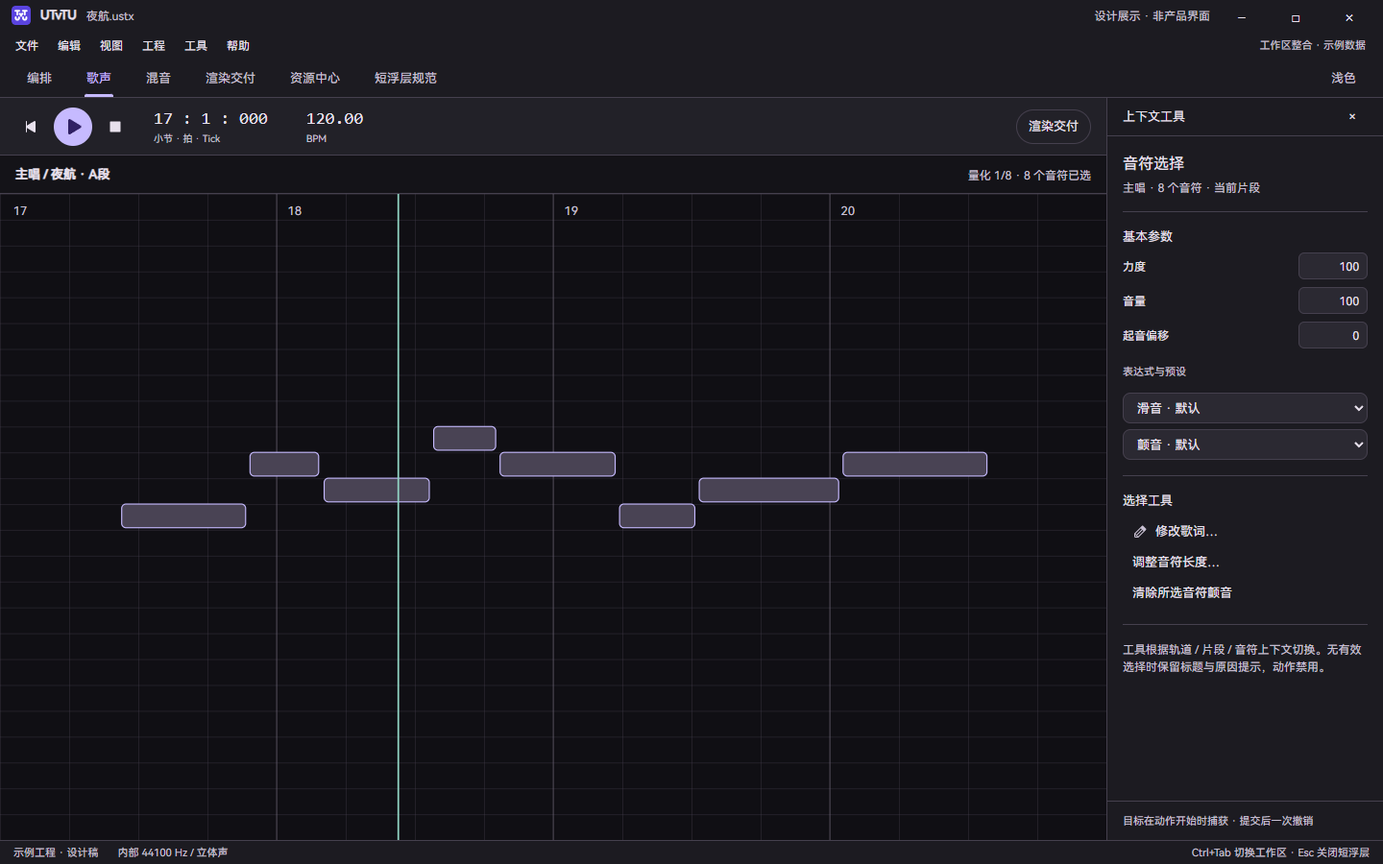
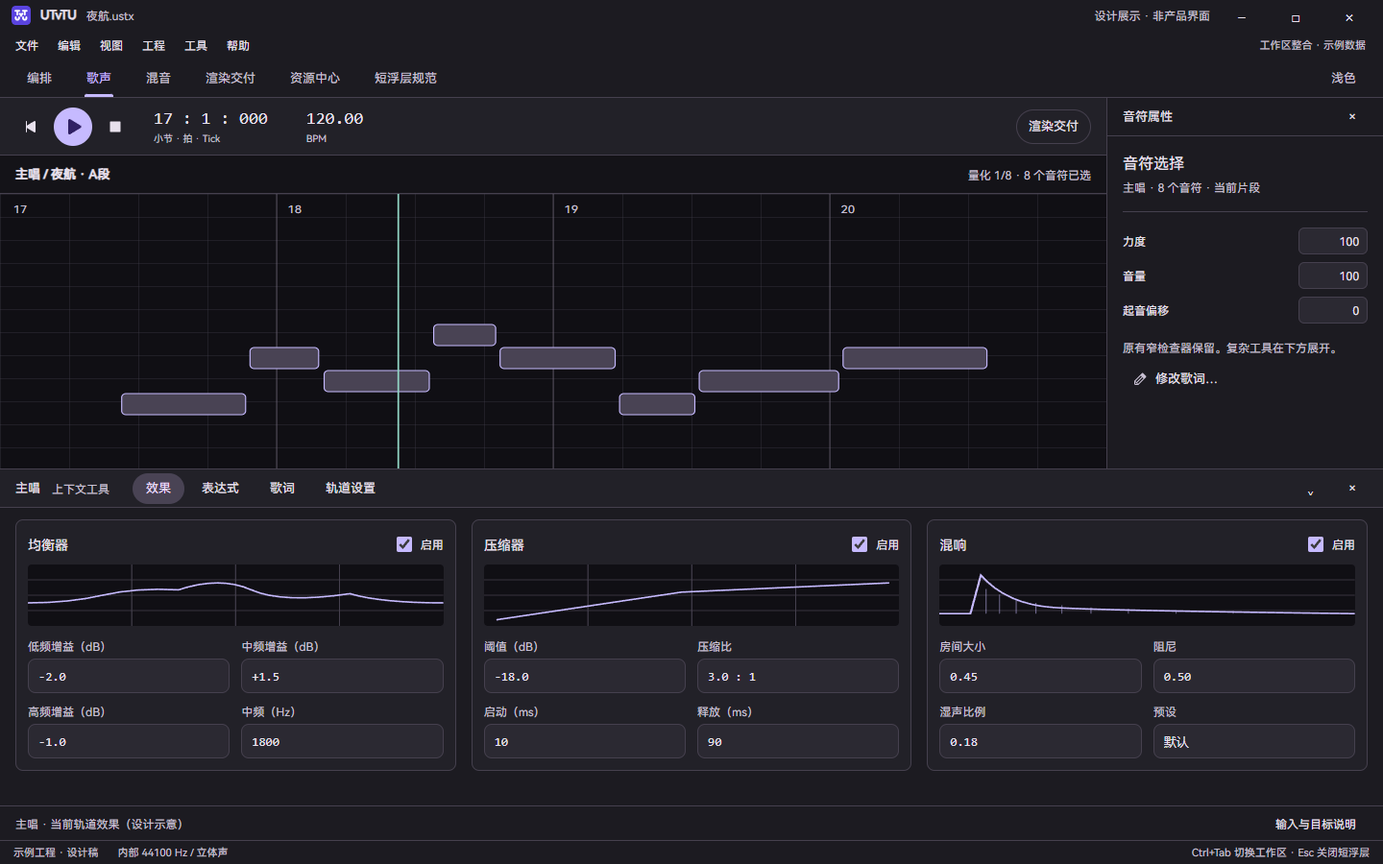
设计：将复杂上下文工具改为全宽可调底部面板

diff --git a/.opencode/design/workspace-integration-2026-10-11/index.html b/.opencode/design/workspace-integration-2026-10-11/index.html
@@ -8,6 +8,7 @@
 :root{color-scheme:dark;--surface:#141318;--surface-lowest:#100f14;--surface-low:#1c1b21;--surface-container:#222128;--surface-high:#2b2932;--surface-highest:#35323e;--on-surface:#e8e1ed;--on-surface-variant:#c8c0d3;--primary:#c6baff;--on-primary:#302065;--secondary-container:#494354;--on-secondary-container:#e9def8;--outline:#958d9f;--outline-variant:#45404e;--error:#ffb4ab;--tertiary:#91d5c4;--field:36px;--target:32px;--nav:232px;--context:288px;--radius-input:8px;--radius-popup:12px;--radius-pill:999px;--font:"HarmonyOS Sans SC","Microsoft YaHei UI","Segoe UI",sans-serif}
 html[data-theme="light"]{color-scheme:light;--surface:#faf8fd;--surface-lowest:#fff;--surface-low:#f2eff7;--surface-container:#ece8f2;--surface-high:#e5e0ed;--surface-highest:#ded8e6;--on-surface:#1d1a23;--on-surface-variant:#4b4558;--primary:#5c4694;--on-primary:#fff;--secondary-container:#e9def8;--on-secondary-container:#231b30;--outline:#7b7288;--outline-variant:#cdc5d8;--error:#b3261e;--tertiary:#176b57}
 @font-face{font-family:"HarmonyOS Sans SC";src:url("../../../OpenUtau/Assets/Fonts/HarmonyOS_Sans_SC_Regular.ttf")}*{box-sizing:border-box}body{margin:0;background:var(--surface);color:var(--on-surface);font:13px/1.5 var(--font);overflow:hidden}button,input,select{font:inherit;color:inherit}button{height:32px;border:0;border-radius:999px;background:transparent;padding:0 12px;cursor:pointer;display:inline-flex;align-items:center;justify-content:center;gap:8px;white-space:nowrap}button:hover{background:color-mix(in srgb,var(--on-surface) 8%,transparent)}button:active{background:color-mix(in srgb,var(--on-surface) 12%,transparent)}button:focus-visible,input:focus-visible,select:focus-visible{outline:2px solid var(--primary);outline-offset:2px}button:disabled{opacity:.38;cursor:default}.icon{width:16px;height:16px;fill:currentColor;stroke:none;flex:none}.icon-button{width:32px;padding:0}.primary{background:var(--primary);color:var(--on-primary);height:36px;padding:0 18px}.outline{border:1px solid var(--outline-variant);height:36px}.tonal{background:var(--secondary-container);color:var(--on-secondary-container)}.muted,.hint{color:var(--on-surface-variant)}.hint{font-size:12px;line-height:18px}.mono{font-family:Consolas,"Cascadia Mono",monospace;font-variant-numeric:tabular-nums}.spacer{flex:1}.row{display:flex;align-items:center;gap:8px}.small{font-size:12px}.divider{height:1px;background:var(--outline-variant);margin:20px 0}.app{height:100dvh;display:flex;flex-direction:column;min-width:620px}.titlebar{height:32px;background:var(--surface-low);display:flex;align-items:center;padding:0 12px;gap:10px;flex:none}.brand{font-weight:600}.brand-icon{width:20px;height:20px}.titlebar .window-button{height:32px;width:46px;border-radius:0;padding:0;font:16px "Segoe UI"}.menubar{height:30px;display:flex;align-items:center;background:var(--surface-low);padding:0 6px;flex:none}.menubar button{height:26px;border-radius:4px;font-size:12px;padding:0 10px}.prototype{font-size:11px;color:var(--on-surface-variant);margin-right:12px}.navigation{height:40px;display:flex;align-items:stretch;gap:4px;padding:0 12px;border-bottom:1px solid var(--outline-variant);background:var(--surface-low);flex:none}.navigation button{height:39px;border-radius:0;position:relative;padding:0 16px;color:var(--on-surface-variant)}.navigation button[aria-selected="true"]{color:var(--primary)}.navigation button[aria-selected="true"]:after{content:"";position:absolute;left:14px;right:14px;bottom:0;height:3px;background:var(--primary);border-radius:3px 3px 0 0}.navigation .theme-button{height:32px;align-self:center;border-radius:999px}.view{display:flex;flex:1;min-height:0;overflow:hidden}.view[hidden]{display:none}.status{height:25px;flex:none;border-top:1px solid var(--outline-variant);background:var(--surface-low);display:flex;align-items:center;gap:20px;padding:0 14px;font-size:11px;color:var(--on-surface-variant)}.page{display:flex;flex-direction:column;flex:1;min-width:0;min-height:0}.scroll{flex:1;overflow:auto;min-height:0}.page-width{max-width:1040px;margin:0 auto;padding:24px}.page-title{font-size:22px;font-weight:600;margin:0 0 4px}.subtitle{font-size:13px;margin:0 0 24px;color:var(--on-surface-variant)}h2{font-size:16px;font-weight:500;margin:0 0 12px}h3{font-size:13px;font-weight:500;margin:0 0 6px}.columns{display:grid;grid-template-columns:minmax(0,1.3fr) minmax(0,1fr);gap:32px}.fields[hidden]{display:none}.fields{display:grid;grid-template-columns:1fr 1fr;gap:12px}.field-label{display:block;color:var(--on-surface-variant);font-weight:500;margin:0 0 6px}.field{height:36px;min-width:0;width:100%;border:1px solid var(--outline-variant);border-radius:8px;background:var(--surface-high);padding:0 10px}.path{display:grid;grid-template-columns:minmax(0,1fr) auto;gap:8px}.segment{display:flex;gap:2px;border-radius:999px;padding:3px;background:var(--surface-high);margin-bottom:8px}.segment button{height:36px;flex:1;min-width:0}.segment button[aria-pressed="true"]{background:var(--secondary-container);color:var(--on-secondary-container)}.range-settings{display:grid;grid-template-columns:minmax(0,1fr) 160px;align-items:end;gap:16px}.range-settings .segment{margin-bottom:0}.form-group{margin:0 0 16px}.checks{display:grid;gap:4px;margin:12px 0}.check{min-height:32px;display:flex;align-items:center;gap:9px}.check input{accent-color:var(--primary);width:16px;height:16px;margin:0}.track-list{border:1px solid var(--outline-variant);border-radius:12px;padding:6px 10px;max-height:152px;overflow:auto}.track-list .check{border-bottom:1px solid var(--outline-variant);min-height:36px}.track-list .check:last-child{border:0}.track-list .count{margin-left:auto;font-size:11px;color:var(--on-surface-variant)}.summary{background:var(--surface-container);border-radius:12px;padding:12px 16px;line-height:20px}.job-bar{border-top:1px solid var(--outline-variant);background:var(--surface-low);flex:none}.job-width{max-width:1040px;margin:auto;padding:12px 24px 16px}.progress{height:6px;border-radius:999px;background:var(--surface-highest);overflow:hidden;margin:8px 0 12px}.progress>span{display:block;width:0;height:100%;background:var(--primary)}.job-bar button{height:36px}.job-message{min-height:18px}.side-nav{width:232px;flex:none;border-right:1px solid var(--outline-variant);background:var(--surface-low);padding:24px 16px;display:flex;flex-direction:column;gap:4px}.side-nav h2{padding:0 12px;margin-bottom:16px}.side-nav button{justify-content:flex-start;height:36px}.side-nav button[aria-selected="true"]{background:var(--secondary-container);color:var(--on-secondary-container)}.side-nav .hint{padding:0 12px}.library-head{display:flex;align-items:center;gap:12px;margin-bottom:20px}.search{position:relative;flex:1}.search .field{padding-left:36px}.search>.icon{position:absolute;left:11px;top:10px}.filterbar{display:flex;align-items:center;gap:8px;margin-bottom:12px}.badge{font-size:11px;border:1px solid var(--outline-variant);padding:2px 8px;border-radius:999px;color:var(--on-surface-variant)}.resource-list{border-top:1px solid var(--outline-variant)}.resource-row{display:flex;align-items:center;gap:12px;min-height:56px;padding:8px 12px;border-bottom:1px solid var(--outline-variant);cursor:pointer}.resource-row:hover{background:color-mix(in srgb,var(--on-surface) 8%,transparent)}.resource-row[hidden]{display:none}.resource-row.active{background:var(--secondary-container);color:var(--on-secondary-container)}.resource-thumb{width:36px;height:36px;background:var(--surface-high);border-radius:8px;display:grid;place-items:center;color:var(--primary);flex:none;font-size:14px}.resource-name{font-weight:500}.resource-type{font-size:12px;color:var(--on-surface-variant)}.resource-row .badge{margin-left:auto}.context{width:288px;flex:none;display:flex;flex-direction:column;background:var(--surface-low);border-left:1px solid var(--outline-variant);min-height:0}.context-head{height:40px;display:flex;align-items:center;padding:0 16px;gap:8px;border-bottom:1px solid var(--outline-variant);flex:none;font-weight:500}.context-body{padding:16px;overflow:auto;min-height:0;flex:1}.context-title{font-size:16px;font-weight:500;margin-bottom:4px}.context .divider{margin:16px 0}.context .field{height:32px}.definition{display:grid;grid-template-columns:64px minmax(0,1fr);gap:6px 12px;margin:16px 0;font-size:12px}.definition dt{color:var(--on-surface-variant)}.definition dd{margin:0;overflow-wrap:anywhere}.context-action{width:100%;justify-content:flex-start;height:32px;padding:0 10px}.context-action svg{color:var(--on-surface-variant)}.context .danger{color:var(--error)}.context-footer{border-top:1px solid var(--outline-variant);padding:12px 16px;font-size:11px;color:var(--on-surface-variant)}.transport{height:60px;display:flex;align-items:center;padding:0 16px;gap:8px;background:var(--surface-container);border-bottom:1px solid var(--outline-variant);flex:none}.play{height:40px;width:40px;background:var(--primary);color:var(--on-primary);padding:0}.readout{padding:0 16px;font:18px Consolas,monospace}.readout small{font:10px var(--font);color:var(--on-surface-variant);display:block;margin-top:3px}.editor{display:flex;flex-direction:column;flex:1;min-width:0}.editor-tools{height:40px;border-bottom:1px solid var(--outline-variant);padding:0 16px;gap:8px;display:flex;align-items:center}.editor-tools button{height:28px}.timeline{flex:1;overflow:hidden;background:var(--surface-lowest);position:relative}.timeline svg{width:100%;height:100%;display:block}.timeline text{font-family:var(--font);font-size:11px;fill:var(--on-surface-variant)}.context .parameter{display:grid;grid-template-columns:1fr 72px;align-items:center;margin-bottom:8px;gap:12px;font-size:12px}.parameter input{text-align:right;height:28px;border:1px solid var(--outline-variant);background:var(--surface-high);border-radius:6px;padding:0 8px;color:var(--on-surface);min-width:0;width:72px}.context select{margin-top:6px}.tool-caption{font-size:11px;color:var(--on-surface-variant);margin:16px 0 8px}.modal-backdrop{position:fixed;inset:102px 0 25px;background:#0005;display:grid;place-items:center;z-index:10}.modal-backdrop[hidden]{display:none}.popup{width:360px;border-radius:12px;border:1px solid var(--outline-variant);background:var(--surface-high);padding:16px;box-shadow:0 12px 36px #0004}.popup h2{margin-bottom:4px}.popup .form-group{margin:16px 0}.popup .field{background:var(--surface-container)}.popup .actions{display:flex;justify-content:flex-end;gap:8px;margin-top:16px}.popup .error{font-size:12px;color:var(--error)}.overlay-page{flex:1;overflow:auto}.overlay-examples{display:grid;grid-template-columns:repeat(3,1fr);gap:20px;max-width:1160px;margin:auto;padding:24px}.overlay-examples .popup{width:auto;box-shadow:none}.spec-note{border-left:2px solid var(--primary);padding:8px 12px;font-size:12px;color:var(--on-surface-variant);margin-top:20px}.empty{padding:32px 16px;text-align:center;color:var(--on-surface-variant);font-size:12px}.resource-page[hidden],.resource-panel[hidden]{display:none}@media(max-width:1100px){.context{width:256px}.side-nav{width:200px}.columns{gap:20px}}@media(max-width:900px){.context{display:none}.side-nav{width:180px}.page-width{padding:20px}.navigation button{padding:0 11px}.prototype{display:none}.overlay-examples{grid-template-columns:1fr 1fr}.overlay-examples>.popup:last-child{grid-column:1/-1}}@media(max-width:720px){.columns{grid-template-columns:1fr}.side-nav{width:152px;padding:20px 8px}.side-nav button{padding:0 10px}.fields{gap:8px}.library-head{flex-wrap:wrap}.overlay-examples{grid-template-columns:1fr}.overlay-examples>.popup:last-child{grid-column:auto}}
+.context-view{flex-direction:column}.context-top{display:flex;flex:1;min-height:170px;min-width:0}.context-top .timeline{min-height:70px}.context-top .timeline>svg{height:600px}.bottom-dock button.outline,.bottom-dock button.primary{height:32px}.bottom-dock{height:43vh;min-height:220px;max-height:calc(100% - 170px);flex:none;background:var(--surface-low);display:flex;flex-direction:column;position:relative;border-top:1px solid var(--outline-variant)}.dock-splitter{height:6px;position:absolute;top:-3px;left:0;right:0;z-index:2;cursor:ns-resize;background:transparent}.dock-splitter:hover,.dock-splitter:focus-visible{background:color-mix(in srgb,var(--primary) 24%,transparent);outline:none}.dock-head{height:40px;flex:none;display:flex;align-items:center;gap:12px;padding:0 16px;border-bottom:1px solid var(--outline-variant);background:var(--surface-container)}.dock-head strong{font-weight:500}.dock-tabs{display:flex;align-items:center;gap:4px;margin-left:12px}.dock-tabs button{height:32px;padding:0 14px}.dock-tabs button[aria-selected="true"]{background:var(--secondary-container);color:var(--on-secondary-container)}.dock-body{overflow:auto;flex:1;min-height:0;padding:12px 16px}.dock-page[hidden]{display:none}.effect-grid{display:grid;grid-template-columns:repeat(3,minmax(0,1fr));gap:16px}.dock-module{background:var(--surface-container);border:1px solid var(--outline-variant);border-radius:8px;padding:12px}.module-title{display:flex;align-items:center;height:26px;margin-bottom:8px;gap:8px}.module-title h3{font-size:14px;margin:0}.module-title .check{min-height:26px}.module-plot{width:100%;height:64px;display:block;background:var(--surface-lowest);border-radius:4px;margin-bottom:12px}.module-fields{display:grid;grid-template-columns:1fr 1fr;gap:10px 12px}.module-fields .field-label{font-size:12px;margin-bottom:4px}.module-fields .field{height:36px}.dock-footer{height:36px;display:flex;align-items:center;gap:8px;padding:0 16px;border-top:1px solid var(--outline-variant);flex:none}.dock-footer button{height:32px}.tool-layout{display:grid;grid-template-columns:minmax(0,2fr) minmax(240px,1fr);gap:24px}.expression-table{border-top:1px solid var(--outline-variant)}.expression-row{display:grid;grid-template-columns:1.5fr .8fr 1fr .8fr .8fr 1fr;align-items:center;gap:8px;height:40px;padding:0 12px;border-bottom:1px solid var(--outline-variant)}.expression-row.table-head{height:32px;color:var(--on-surface-variant);font-size:12px}.expression-row.selected{background:var(--secondary-container)}.lyric-editor{width:100%;height:140px;resize:none;background:var(--surface-high);color:var(--on-surface);font:14px/24px var(--font);border:1px solid var(--outline-variant);border-radius:8px;padding:12px}.bottom-dock.collapsed{height:40px!important;min-height:40px;max-height:40px}.bottom-dock.collapsed .dock-body,.bottom-dock.collapsed .dock-footer{display:none}@media(max-width:900px){.effect-grid{min-width:860px}.dock-head{gap:8px}.dock-head>.hint{display:none}.dock-tabs{margin-left:0}.dock-tabs button{padding:0 9px}.tool-layout{grid-template-columns:minmax(350px,2fr) minmax(220px,1fr)}}
 </style>
 </head>
 <body>
@@ -39,7 +40,7 @@ html[data-theme="light"]{color-scheme:light;--surface:#faf8fd;--surface-lowest:#
 </div></div></div>
 <aside class="context" id="resource-details"><div class="context-head">资源详情<span class="spacer"></span><button class="icon-button" aria-label="资源详情更多操作">⋯</button></div><div class="context-body"><div class="resource-thumb" style="width:48px;height:48px;margin-bottom:12px">清</div><div class="context-title" id="detail-name">清和</div><div class="hint" id="detail-type">DiffSinger · 多音阶</div><dl class="definition"><dt>状态</dt><dd>可用</dd><dt>来源</dt><dd>本地安装</dd><dt>目录</dt><dd class="mono">Singers\清和</dd></dl><div class="divider"></div><h3>音源工具</h3><button class="context-action"><svg class="icon"><use href="#icon-folder-open"/></svg>打开音源目录</button><button class="context-action"><svg class="icon"><use href="#icon-settings"/></svg>音源配置…</button><button class="context-action" id="resource-info"><svg class="icon"><use href="#icon-info"/></svg>查看说明</button><div class="divider"></div><div class="hint">资源详情与工程选择分离，切换资源不会替换轨道音源。</div></div><div class="context-footer">示例资源 · 详情仅为布局示意</div></aside>
 </section>
-<section class="view" id="view-context" hidden><div class="editor"><div class="transport"><button class="icon-button" aria-label="回到起点示意"><svg class="icon"><use href="#icon-skip-back"/></svg></button><button class="play" aria-label="播放示意"><svg class="icon" style="width:20px;height:20px"><use href="#icon-play"/></svg></button><button class="icon-button" aria-label="停止示意"><svg class="icon"><use href="#icon-stop"/></svg></button><div class="readout">17 : 1 : 000<small>小节 · 拍 · Tick</small></div><div class="readout">120.00<small>BPM</small></div><span class="spacer"></span><button class="outline" data-view="render">渲染交付</button></div><div class="editor-tools"><strong>主唱 / 夜航 · A段</strong><span class="spacer"></span><span class="hint">量化 1/8 · 8 个音符已选</span></div><div class="timeline"><svg viewBox="0 0 1000 600" preserveAspectRatio="none" aria-label="音符几何示意"><defs><pattern id="beat-grid" width="62.5" height="24" patternUnits="userSpaceOnUse"><path d="M62.5 0H0V24" fill="none" stroke="var(--outline-variant)" stroke-width=".6"/></pattern></defs><rect width="1000" height="600" fill="url(#beat-grid)"/><path d="M250 0V600 M500 0V600 M750 0V600" fill="none" stroke="var(--outline)" opacity=".4"/><g fill="var(--secondary-container)" stroke="var(--primary)" stroke-width="1"><rect x="110" y="288" width="112" height="22" rx="4"/><rect x="226" y="240" width="62" height="22" rx="4"/><rect x="293" y="264" width="95" height="22" rx="4"/><rect x="392" y="216" width="56" height="22" rx="4"/><rect x="452" y="240" width="104" height="22" rx="4"/><rect x="560" y="288" width="68" height="22" rx="4"/><rect x="632" y="264" width="126" height="22" rx="4"/><rect x="762" y="240" width="130" height="22" rx="4"/></g><text x="12" y="20">17</text><text x="260" y="20">18</text><text x="510" y="20">19</text><text x="760" y="20">20</text><path d="M360 0V600" stroke="var(--tertiary)" stroke-width="1.5"/></svg></div></div><aside class="context"><div class="context-head">上下文工具<span class="spacer"></span><button class="icon-button" aria-label="收起上下文工具">×</button></div><div class="context-body"><div class="context-title">音符选择</div><div class="hint">主唱 · 8 个音符 · 当前片段</div><div class="divider"></div><h3>基本参数</h3><div class="parameter"><span>力度</span><input value="100" aria-label="力度"></div><div class="parameter"><span>音量</span><input value="100" aria-label="音量"></div><div class="parameter"><span>起音偏移</span><input value="0" aria-label="起音偏移"></div><div class="tool-caption">表达式与预设</div><select class="field" aria-label="滑音预设"><option>滑音 · 默认</option><option>柔和</option></select><select class="field" aria-label="颤音预设"><option>颤音 · 默认</option><option>轻颤音</option></select><div class="divider"></div><h3>选择工具</h3><button class="context-action" id="rename-open"><svg class="icon"><use href="#icon-pencil"/></svg>修改歌词…</button><button class="context-action">调整音符长度…</button><button class="context-action">清除所选音符颤音</button><div class="divider"></div><div class="hint">工具根据轨道 / 片段 / 音符上下文切换。无有效选择时保留标题与原因提示，动作禁用。</div></div><div class="context-footer">目标在动作开始时捕获 · 提交后一次撤销</div></aside></section>
+<section class="view context-view" id="view-context" hidden><div class="context-top"><div class="editor"><div class="transport"><button class="icon-button" aria-label="回到起点示意"><svg class="icon"><use href="#icon-skip-back"/></svg></button><button class="play" aria-label="播放示意"><svg class="icon" style="width:20px;height:20px"><use href="#icon-play"/></svg></button><button class="icon-button" aria-label="停止示意"><svg class="icon"><use href="#icon-stop"/></svg></button><div class="readout">17 : 1 : 000<small>小节 · 拍 · Tick</small></div><div class="readout">120.00<small>BPM</small></div><span class="spacer"></span><button class="outline" data-view="render">渲染交付</button></div><div class="editor-tools"><strong>主唱 / 夜航 · A段</strong><span class="spacer"></span><span class="hint">量化 1/8 · 8 个音符已选</span></div><div class="timeline"><svg viewBox="0 0 1000 600" preserveAspectRatio="none" aria-label="音符几何示意"><defs><pattern id="beat-grid" width="62.5" height="24" patternUnits="userSpaceOnUse"><path d="M62.5 0H0V24" fill="none" stroke="var(--outline-variant)" stroke-width=".6"/></pattern></defs><rect width="1000" height="600" fill="url(#beat-grid)"/><path d="M250 0V600 M500 0V600 M750 0V600" fill="none" stroke="var(--outline)" opacity=".4"/><g fill="var(--secondary-container)" stroke="var(--primary)" stroke-width="1"><rect x="110" y="208" width="112" height="22" rx="4"/><rect x="226" y="160" width="62" height="22" rx="4"/><rect x="293" y="184" width="95" height="22" rx="4"/><rect x="392" y="136" width="56" height="22" rx="4"/><rect x="452" y="160" width="104" height="22" rx="4"/><rect x="560" y="208" width="68" height="22" rx="4"/><rect x="632" y="184" width="126" height="22" rx="4"/><rect x="762" y="160" width="130" height="22" rx="4"/></g><text x="12" y="20">17</text><text x="260" y="20">18</text><text x="510" y="20">19</text><text x="760" y="20">20</text><path d="M360 0V600" stroke="var(--tertiary)" stroke-width="1.5"/></svg></div></div><aside class="context existing-inspector"><div class="context-head">音符属性<span class="spacer"></span><button class="icon-button" aria-label="收起检查器">×</button></div><div class="context-body"><div class="context-title">音符选择</div><div class="hint">主唱 · 8 个音符 · 当前片段</div><div class="divider"></div><div class="parameter"><span>力度</span><input value="100" aria-label="检查器力度"></div><div class="parameter"><span>音量</span><input value="100" aria-label="检查器音量"></div><div class="parameter"><span>起音偏移</span><input value="0" aria-label="检查器起音偏移"></div><div class="hint" style="margin-top:16px">原有窄检查器保留。复杂工具在下方展开。</div><button class="context-action" id="rename-open" style="margin-top:8px"><svg class="icon"><use href="#icon-pencil"/></svg>修改歌词…</button></div></aside></div><section class="bottom-dock" id="bottom-dock" aria-label="上下文工具面板"><div class="dock-splitter" id="dock-splitter" role="separator" aria-label="调整工具面板高度" aria-orientation="horizontal" aria-valuemin="220" aria-valuemax="600" aria-valuenow="387" tabindex="0"></div><header class="dock-head"><strong>主唱</strong><span class="hint">上下文工具</span><div class="dock-tabs" role="tablist"><button role="tab" data-tool="fx" aria-selected="true">效果</button><button role="tab" data-tool="expressions" aria-selected="false">表达式</button><button role="tab" data-tool="lyrics" aria-selected="false">歌词</button><button role="tab" data-tool="track" aria-selected="false">轨道设置</button></div><span class="spacer"></span><button class="icon-button" id="dock-collapse" aria-label="收起或展开工具面板">⌄</button><button class="icon-button" id="dock-close" aria-label="关闭工具面板">×</button></header><div class="dock-body"><div class="dock-page" id="dock-fx"><div class="effect-grid"><section class="dock-module"><div class="module-title"><h3>均衡器</h3><span class="spacer"></span><label class="check small"><input type="checkbox" checked>启用</label></div><svg class="module-plot" viewBox="0 0 400 80" preserveAspectRatio="none"><path d="M0 20H400M0 40H400M0 60H400M100 0V80M200 0V80M300 0V80" stroke="var(--outline-variant)" fill="none"/><path d="M0 50Q40 50 72 40T145 33Q185 15 215 33T310 38Q340 50 400 50" stroke="var(--primary)" fill="none" stroke-width="2"/></svg><div class="module-fields"><label><span class="field-label">低频增益（dB）</span><input class="field mono" value="-2.0" aria-label="低频增益（dB）"></label><label><span class="field-label">中频增益（dB）</span><input class="field mono" value="+1.5" aria-label="中频增益（dB）"></label><label><span class="field-label">高频增益（dB）</span><input class="field mono" value="-1.0" aria-label="高频增益（dB）"></label><label><span class="field-label">中频（Hz）</span><input class="field mono" value="1800" aria-label="中频（Hz）"></label></div></section><section class="dock-module"><div class="module-title"><h3>压缩器</h3><span class="spacer"></span><label class="check small"><input type="checkbox" checked>启用</label></div><svg class="module-plot" viewBox="0 0 400 80" preserveAspectRatio="none"><path d="M0 20H400M0 40H400M0 60H400M100 0V80M200 0V80M300 0V80" stroke="var(--outline-variant)" fill="none"/><path d="M12 72L190 36L390 24" stroke="var(--primary)" fill="none" stroke-width="2"/></svg><div class="module-fields"><label><span class="field-label">阈值（dB）</span><input class="field mono" value="-18.0" aria-label="阈值（dB）"></label><label><span class="field-label">压缩比</span><input class="field mono" value="3.0 : 1" aria-label="压缩比"></label><label><span class="field-label">启动（ms）</span><input class="field mono" value="10" aria-label="启动（ms）"></label><label><span class="field-label">释放（ms）</span><input class="field mono" value="90" aria-label="释放（ms）"></label></div></section><section class="dock-module"><div class="module-title"><h3>混响</h3><span class="spacer"></span><label class="check small"><input type="checkbox" checked>启用</label></div><svg class="module-plot" viewBox="0 0 400 80" preserveAspectRatio="none"><path d="M0 60H400M0 40H400M0 20H400" stroke="var(--outline-variant)" fill="none"/><path d="M0 64L30 64L40 14Q65 52 110 56T400 64" stroke="var(--primary)" fill="none" stroke-width="2"/><path d="M45 64V32M58 64V39M74 64V45M93 64V50M118 64V53M146 64V56M182 64V58M228 64V60M283 64V61" stroke="var(--primary)" opacity=".5"/></svg><div class="module-fields"><label><span class="field-label">房间大小</span><input class="field mono" value="0.45" aria-label="房间大小"></label><label><span class="field-label">阻尼</span><input class="field mono" value="0.50" aria-label="阻尼"></label><label><span class="field-label">湿声比例</span><input class="field mono" value="0.18" aria-label="湿声比例"></label><label><span class="field-label">预设</span><input class="field mono" value="默认" aria-label="预设"></label></div></section></div></div><div class="dock-page" id="dock-expressions" hidden><div class="tool-layout"><div><h3>表达式配置</h3><div class="expression-table"><div class="expression-row table-head"><span>名称</span><span>缩写</span><span>类型</span><span>最小</span><span>最大</span><span>默认</span></div><div class="expression-row selected"><span>力度</span><span class="mono">vel</span><span>数值</span><span class="mono">0</span><span class="mono">200</span><span class="mono">100</span></div><div class="expression-row"><span>音量</span><span class="mono">vol</span><span>数值</span><span class="mono">0</span><span class="mono">200</span><span class="mono">100</span></div><div class="expression-row"><span>音色</span><span class="mono">clr</span><span>选项</span><span>—</span><span>—</span><span>默认</span></div></div><div class="row" style="margin-top:8px"><button class="outline">添加</button><button class="outline">删除</button><span class="hint">示例配置 · 生产保留原表达式能力</span></div></div><div><h3>当前表达式</h3><div class="module-fields"><label><span class="field-label">名称</span><input class="field mono" value="力度" aria-label="名称"></label><label><span class="field-label">缩写</span><input class="field mono" value="vel" aria-label="缩写"></label><label><span class="field-label">最小</span><input class="field mono" value="0" aria-label="最小"></label><label><span class="field-label">最大</span><input class="field mono" value="200" aria-label="最大"></label><label><span class="field-label">默认</span><input class="field mono" value="100" aria-label="默认"></label></div></div></div></div><div class="dock-page" id="dock-lyrics" hidden><div class="tool-layout"><div><h3>歌词</h3><textarea class="lyric-editor" aria-label="批量歌词">夜 航 沿 着 星 光 向 前</textarea><p class="hint">目标：主唱 · 夜航 A段 · 8 个已选音符（示例）</p></div><div><h3>输入选项</h3><label class="check"><input type="checkbox" checked>按空格拆分</label><p class="hint">保留原歌词编辑器的实际拆分与提交语义。目标在打开工具时捕获。</p><button class="outline" style="margin-top:8px">应用</button></div></div></div><div class="dock-page" id="dock-track" hidden><div class="tool-layout"><div><h3>轨道设置</h3><div class="module-fields"><label><span class="field-label">轨道名称</span><input class="field mono" value="主唱" aria-label="轨道名称"></label><label><span class="field-label">音源</span><input class="field mono" value="清和" aria-label="音源"></label><label><span class="field-label">音素化器</span><input class="field mono" value="默认" aria-label="音素化器"></label><label><span class="field-label">渲染器</span><input class="field mono" value="DiffSinger" aria-label="渲染器"></label></div></div><div><h3>目标与提交</h3><p class="hint">主唱 · 当前工程轨道。设置项来自真实轨道入口，不创建新的音频路由。</p><div class="row" style="margin-top:16px"><button class="outline">取消</button><button class="primary">确定</button></div></div></div></div></div><footer class="dock-footer"><span class="hint" id="dock-context">主唱 · 当前轨道效果（设计示意）</span><span class="spacer"></span><button id="dock-info" class="small">输入与目标说明</button></footer></section></section>
 <section class="view" id="view-overlays" hidden><div class="overlay-page"><div class="page-width" style="max-width:1160px"><h1 class="page-title">短浮层</h1><p class="subtitle">同一视觉容器承载短输入、确认和说明；复杂任务进入工作区页面。</p></div><div class="overlay-examples"><div class="popup"><h2>重命名轨道</h2><p class="hint">当前目标：主唱</p><div class="form-group"><label class="field-label">轨道名称</label><input class="field" value="主唱"></div><div class="actions"><button class="outline">取消</button><button class="primary">确定</button></div></div><div class="popup"><h2>移除资源</h2><p class="hint">移除本地安装包会影响使用该资源的工程。</p><div class="summary small" style="margin-top:16px">音素化器扩展包 · 本地资源</div><div class="actions"><button class="outline">取消</button><button class="outline" style="color:var(--error)">移除</button></div></div><div class="popup"><h2>输入未提交</h2><p class="hint">错误紧邻输入，不再打开第二层提示。</p><div class="form-group"><label class="field-label">结束时间（秒）</label><input class="field" value="NaN" aria-invalid="true" style="border-color:var(--error)"><div class="error" style="margin-top:6px">请输入大于开始时间的有效数值。</div></div><div class="actions"><button class="outline">取消</button><button class="primary" disabled>确定</button></div></div></div><div class="page-width" style="max-width:1160px"><div class="spec-note">标准宽360（短输入320–420），内距16，圆角12，控件36，按钮间隙8。Esc取消，Enter仅在输入有效时提交；关闭后焦点回到触发入口。工作区设置、长列表、渲染作业进入整页。</div></div></div></section>
 <footer class="status"><span>示例工程 · 设计稿</span><span>内部 44100 Hz / 立体声</span><span class="spacer"></span><span>Ctrl+Tab 切换工作区 · Esc 关闭短浮层</span></footer>
 </main>
@@ -50,4 +51,9 @@ const params=new URLSearchParams(location.search);const buttons=[...document.que
 document.querySelectorAll('[data-resource]').forEach(b=>b.onclick=()=>{document.querySelectorAll('[data-resource]').forEach(s=>s.setAttribute('aria-selected',s===b?'true':'false'));const singer=b.dataset.resource==='singers';document.querySelector('#singer-list').hidden=!singer;document.querySelector('#package-list').hidden=singer;document.querySelector('#resource-title').textContent=singer?'音源':'包与扩展';document.querySelector('#resource-count').textContent=singer?'3 个音源':'1 个包';document.querySelector('#resource-details').style.visibility=singer?'visible':'hidden'});document.querySelectorAll('#singer-list .resource-row').forEach(r=>r.onclick=()=>{document.querySelectorAll('#singer-list .resource-row').forEach(s=>s.classList.toggle('active',s===r));document.querySelector('#detail-name').textContent=r.dataset.name;document.querySelector('#detail-type').textContent=r.dataset.type;document.querySelector('#resource-details .resource-thumb').textContent=r.dataset.name[0];const dd=document.querySelectorAll('#resource-details .definition dd');dd[0].textContent=r.querySelector('.badge').textContent;dd[2].textContent='Singers\\'+r.dataset.name});document.querySelector('#resource-search').oninput=e=>{const q=e.target.value.trim().toLowerCase();let matches=0;document.querySelectorAll('#singer-list .resource-row').forEach(r=>{r.hidden=!r.textContent.toLowerCase().includes(q);if(!r.hidden)matches++});document.querySelector('#resource-empty').hidden=matches>0};
 function closePopup(){document.querySelector('#rename-dialog').hidden=true;returnFocus?.focus()}document.querySelector('#rename-open').onclick=()=>{returnFocus=document.activeElement;document.querySelector('#rename-dialog').hidden=false;document.querySelector('#lyric').focus();document.querySelector('#lyric').select()};document.querySelector('#popup-cancel').onclick=closePopup;document.querySelector('#rename-form').onsubmit=e=>{e.preventDefault();closePopup()};document.addEventListener('keydown',e=>{if(e.key==='Escape')closePopup();if(e.ctrlKey&&e.key==='Tab'){e.preventDefault();const order=['context','render','resources'];show(order[(order.indexOf(selected)+1)%order.length])}if(e.key==='Tab'&&!document.querySelector('#rename-dialog').hidden){const f=[...document.querySelector('#rename-dialog').querySelectorAll('input,button')];if(e.shiftKey&&document.activeElement===f[0]){e.preventDefault();f.at(-1).focus()}else if(!e.shiftKey&&document.activeElement===f.at(-1)){e.preventDefault();f[0].focus()}}});let timer;document.querySelector('#start').onclick=()=>{clearInterval(timer);let p=0;document.querySelectorAll('#view-render .scroll input,#view-render .scroll select,#view-render .scroll button').forEach(c=>c.disabled=true);document.querySelector('#start').disabled=true;document.querySelector('#cancel').disabled=false;document.querySelector('#job-status').textContent='设计演示 · 正在渲染（不写文件）';timer=setInterval(()=>{p=Math.min(100,p+4);document.querySelector('#progress').style.width=p+'%';document.querySelector('#percent').textContent=p+'%';if(p===100){clearInterval(timer);document.querySelector('#job-status').textContent='设计演示完成 · 未生成音频';document.querySelectorAll('#view-render .scroll input,#view-render .scroll select,#view-render .scroll button').forEach(c=>c.disabled=false);document.querySelector('#start').disabled=false;document.querySelector('#cancel').disabled=true}},80)};document.querySelector('#cancel').onclick=()=>{clearInterval(timer);document.querySelector('#job-status').textContent='演示已取消';document.querySelectorAll('#view-render .scroll input,#view-render .scroll select,#view-render .scroll button').forEach(c=>c.disabled=false);document.querySelector('#start').disabled=false;document.querySelector('#cancel').disabled=true};
 </script>
-</body></html>
+<script>
+const dock=document.querySelector('#bottom-dock');const split=document.querySelector('#dock-splitter');let savedDockHeight;function setDockHeight(height){const max=document.querySelector('#view-context').clientHeight-170;const value=Math.max(220,Math.min(max,height));dock.style.height=value+'px';split.setAttribute('aria-valuenow',Math.round(value));}
+split.onpointerdown=e=>{if(dock.classList.contains('collapsed'))return;const startY=e.clientY,startH=dock.getBoundingClientRect().height;split.setPointerCapture(e.pointerId);split.onpointermove=move=>setDockHeight(startH+startY-move.clientY);split.onpointerup=()=>{split.onpointermove=null;split.onpointerup=null;};};split.onlostpointercapture=()=>{split.onpointermove=null;split.onpointerup=null};split.onkeydown=e=>{if(e.key==='ArrowUp'||e.key==='ArrowDown'){e.preventDefault();setDockHeight(dock.getBoundingClientRect().height+(e.key==='ArrowUp'?24:-24))}};
+document.querySelectorAll('[data-tool]').forEach(button=>button.onclick=()=>{document.querySelectorAll('[data-tool]').forEach(tab=>tab.setAttribute('aria-selected',tab===button?'true':'false'));document.querySelectorAll('.dock-page').forEach(page=>page.hidden=page.id!=='dock-'+button.dataset.tool);document.querySelector('#dock-context').textContent='主唱 · '+button.textContent+'（设计示意）';dock.classList.remove('collapsed');dock.hidden=false;});
+document.querySelector('#dock-collapse').onclick=()=>dock.classList.toggle('collapsed');document.querySelector('#dock-close').onclick=()=>dock.classList.add('collapsed');document.querySelector('#dock-info').onclick=()=>{returnFocus=document.activeElement;document.querySelector('#rename-dialog').hidden=false;document.querySelector('#popup-title').textContent='输入与目标说明';document.querySelector('#lyric').focus();};
+</script></body></html>

diff --git a/.opencode/design/workspace-integration-2026-10-11/README.md b/.opencode/design/workspace-integration-2026-10-11/README.md
@@ -11,11 +11,14 @@
 | 渲染交付 | 设置独立滚动；固定底部作业区约110；两列比例1.3:1、间隔32；摘要在设置末尾 | 保留当前全部真实导出选项与作业回调 |
 | 渲染/资源切页 | 收起运输栏和编辑检查器；返回编辑器恢复上下文 | 主窗口视图生命周期；页面切换不切工程、不关闭作业 |
 | 资源中心 | 左导航232、36高胶囊；中间56高资源行；右详情288 | 音源/包管理的现有模型和动作，禁引入在线商城/云同步承诺 |
-| 上下文工具 | 推荐宽288，生产使用已有持久宽度256–320；头40、内距16、动作32、参数28 | 轨道/片段/音符对应真实工具，不能把示例当完整新检查器模型 |
+| 上下文底部工具 | 主窗口全宽；初始43vh（900高约387）；可调高；标题/页签栏40；内距16；字段36、动作32 | EQ/压缩/混响横向三模块；表达式、歌词、轨道设置作为同一区域兄弟工具页 |
+| 原有窄检查器 | 保留现有位置、宽度与基本参数；仅占上部编辑区 | 不迁移原检查器模型，不将复杂工具压入320宽侧栏 |
 | 短浮层 | 标准宽360，适用320–420；内距16、按钮间隙8、圆角12 | 单一短输入、确认、说明；长列表/复杂作业进入整页 |
 | 字段与按钮 | 字段36/圆角8；主动作36/胶囊999；常规动作32；图标16、播放图标20 | renderInput、DawButtonTheme、DawTextButtonTheme、WorkspaceSegmentTheme、DawIcon |
 
-宽1100以下上下文256、资源导航200；900以下详情收起、导航180；720以下渲染单列、导航152。生产页应为折叠后的工具保留入口，而不是销毁页面状态。800×650设计验证设置滚动、固定作业条与25高状态行不重叠。
+生产整合的长页宿主采用左导航232、顶部标题栏56；原窗口内部标题由宿主去重。HTML 的渲染/资源内容延续已交付稿，主窗宿主尺寸以此次实施约定为准。
+
+宽1100以下资源详情256、资源导航200；900以下资源详情收起、导航180；720以下渲染单列、导航152。底部工具始终占主窗口全宽，顶部分隔条可指针拖动，键盘上/下每次调高24。保留至少170高编辑区；工具正文不足时独立滚动，900以下三效果模块横向最低860宽。生产保留原检查器折叠策略，收起工具不销毁状态。800×650验证渲染设置滚动、固定作业条与25高状态行不重叠。
 
 ## 资源令牌
 
@@ -40,14 +43,14 @@ HTML 的 `symbol` 保留 `Assets/Icons.axaml` 的原生填充路径，`viewBox="
 
 - 渲染方式默认离线，兼容方式需手动选择，摘要显示实际方式。忙时锁设置，开始禁用，取消保持可达；成功后开放输出目录。演示进度不生成文件。
 - 资源选择更新详情，应用/删除/配置必须明确目标；搜索为空显示空态。右详情收起后动作放同一对象的溢出菜单。包能力未实现的动作不展示假成功。
-- 上下文按有效选择展示；无目标时说明禁用原因。动作捕获工程、片段、选择与事务身份，页面切换不把旧输入写到新目标。
+- 底部上下文按有效选择展示，右侧基本检查器继续保留。页签切换效果、表达式、歌词和轨道设置；关闭/收起回到只见40高标题栏，重新选择页签恢复正文。无目标时说明禁用原因；动作捕获工程、片段、选择与事务身份，页面切换不把旧输入写到新目标。复杂工具沿用原入口的即时编辑或确认/取消语义，不由设计稿统一改为自动提交。
 - 短浮层进入时焦点落输入，Tab循环，Esc取消、有效Enter提交，关闭恢复入口焦点。错误紧邻字段，禁止错误层再叠对话框；永久关闭宿主后迟到回调不得复活。
 - 欢迎与偏好保留已认可页面。旧主题编辑器从本轮整合设计排除；主题切换仍沿用现有合法入口。
 
 ## 交付与验证
 
-`render.cjs` 仅启动独立无头浏览器渲染本目录 HTML，不附着产品。运行：`node render.cjs`（依赖本机 bundled Playwright 与 Edge）。`validation.json` 记录浏览器版本、图像列表、800 DIP滚动/边界、模式摘要、自定义范围展开、忙时锁输入/取消恢复、资源搜索空态、浮层焦点进入/恢复与页面错误。PNG 按实际渲染查看后交付；没有产品截图、产品构建或产品测试。
+`render.cjs` 仅启动独立无头浏览器渲染本目录 HTML，不附着产品。运行：`node render.cjs`（依赖本机 bundled Playwright 与 Edge）。`validation.json` 记录浏览器版本、图像列表、800 DIP滚动/边界、模式摘要、自定义范围展开、忙时锁输入/取消恢复、资源搜索空态、底部面板全宽/43vh/40标题/调高/收起/四页切换、浮层焦点进入/恢复与页面错误。PNG 按实际渲染查看后交付；没有产品截图、产品构建或产品测试。
 
-渲染深/浅色全页图为1440×1080，可看到完整摘要；资源/上下文/短浮层为1440×900；窄窗图为800×650。常见900高窗口的渲染设置允许滚动，摘要并不强求所有高度下同时可见，作业按钮始终固定。全部交互检查通过、页面错误为0。图像不是插件听觉、Avalonia字体光栅化或产品布局验收证据。
+渲染深/浅色全页图为1440×1080，可看到完整摘要；资源/上下文/短浮层为1440×900；窄窗图为800×650。`context-dark-1440.png` 已替换为全宽底部效果面板，另附 expressions/lyrics/track 三页PNG。常见900高窗口的渲染设置允许滚动，摘要并不强求所有高度下同时可见，作业按钮始终固定。全部交互检查通过、页面错误为0。图像不是插件听觉、Avalonia字体光栅化或产品布局验收证据。
 
 设计不新增生产架构或能力。实际迁移与验证由主 agent 负责，提交记录不表示全部产品已按示例实现。
